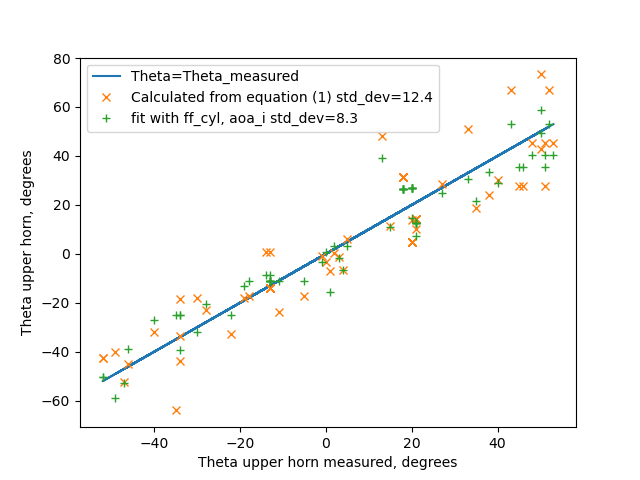
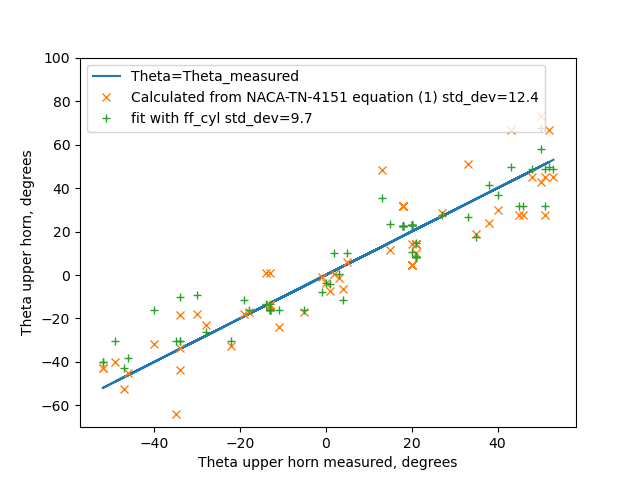
conclusions of ice shapes thread

diff --git a/content/conclusions_of_the_ice_shapes_thread.md b/content/conclusions_of_the_ice_shapes_thread.md
@@ -101,7 +101,7 @@ The results of this are compared to the values from equation (1) below:
 ![calculated fit of theta values](images/ice_shapes_wrap_up/thetas fits.png)  
 
 Both fits have some variance, but the one using freezing fraction 
-has a slightly better fit. 
+has a better fit. 
 
 A similar fit was made for ice height with the addition 
 of a water catch term:
